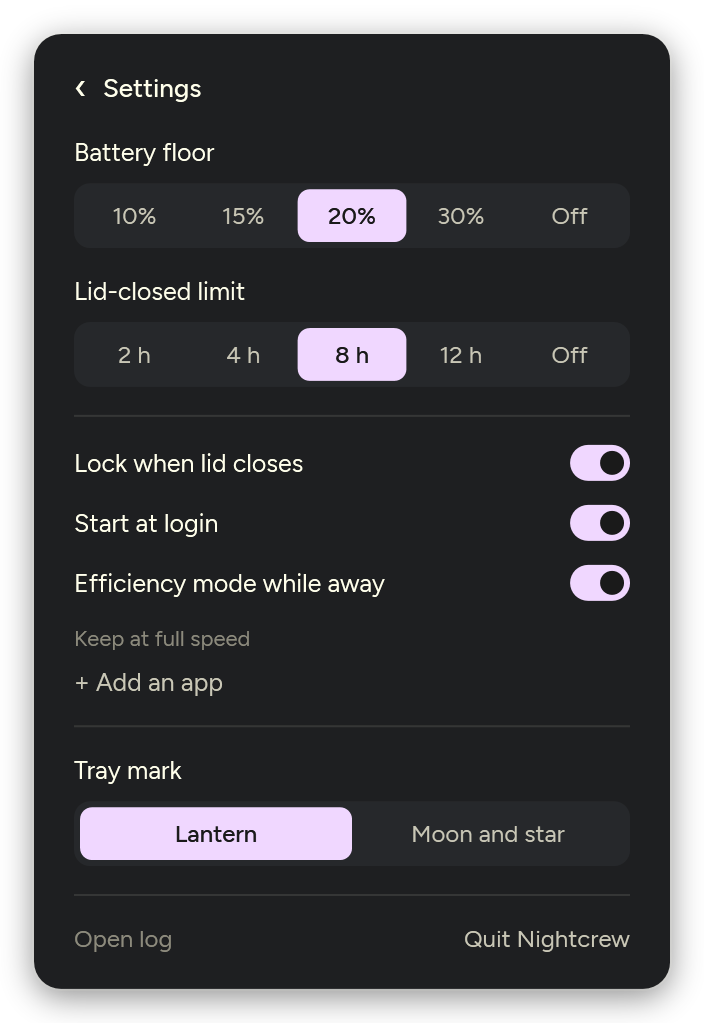
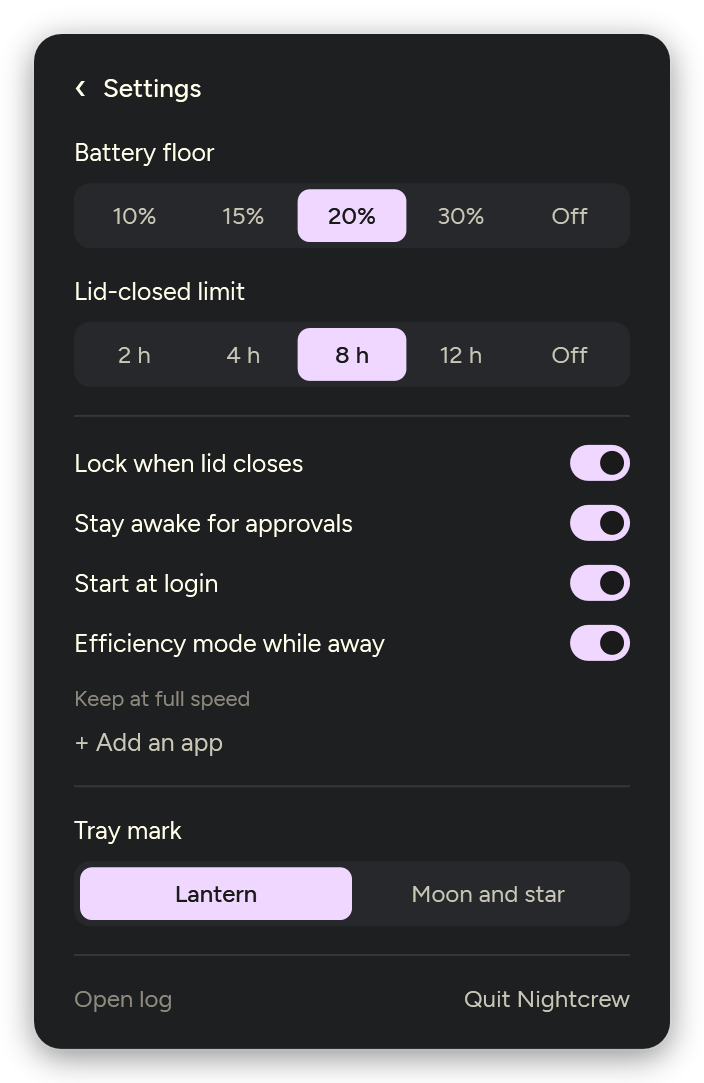
docs: v0.3.0 README and hardware checklist steps
README: what Nightcrew reads in ~\.claude\sessions, Stay awake for approvals,
the second start, the two new settings keys, an Update section with --exit, and
no more plan-switch warning. Checklist: steps 12-17 (plan switch, docked with
Do nothing, a quiet command, approvals, usage limit, second start and --exit),
step 4 to be re-run for the 9-hour battery value, and the arm values in steps
2, 8 and 11. The settings image shows the new switch.

diff --git a/docs/hardware-checklist.md b/docs/hardware-checklist.md
@@ -96,8 +96,9 @@ works.
 
 **Pass.**
 
-- While the agent works, LIDACTION and STANDBYIDLE are `0x00000000` on AC and
-  DC, and `restore.json` exists.
+- While the agent works, LIDACTION is `0x00000000` on AC and DC, STANDBYIDLE
+  is `0x00000000` on AC and `0x00007e90` (9 hours: the lid-closed limit plus
+  an hour) on DC, and `restore.json` exists.
 - `powercfg /requests` lists `nightcrew.exe` under SYSTEM and EXECUTION.
 - After the 6 minutes, the settings check shows your values again, and
   `restore.json` is gone.
@@ -126,7 +127,10 @@ events.
 ## 4. Lid closed on battery, 90 minutes
 
 This proves the battery "Sleep after" override. Without it, Windows would
-sleep after your DC STANDBYIDLE value.
+sleep after your DC STANDBYIDLE value. Run it again for v0.3.0: the override
+on battery is now 9 hours instead of Never, and on Modern Standby Windows ends
+keep-awake requests 5 minutes after that timer, so this checks nothing ends
+early.
 
 **Do.** Charge to at least 80% so that the 20% battery floor doesn't trigger,
 then unplug. Leave **Lock when lid closes** off. Start the heartbeat and a
@@ -214,7 +218,7 @@ the heartbeat.
 **Do.** Start Nightcrew normally. Check that the watchdog task exists with
 `schtasks /Query /TN "Nightcrew Watchdog"`. Keep the lid open and the laptop
 plugged in. Start an agent task and wait until the settings check shows
-`0x00000000`. In Task Manager > Details, end `nightcrew.exe` and note the
+LIDACTION `0x00000000`. In Task Manager > Details, end `nightcrew.exe` and note the
 time. Afterwards, start Nightcrew again.
 
 **Look at.** The settings check once a minute, `restore.json`, and
@@ -282,7 +286,7 @@ afterwards.
 ## 11. Uninstall
 
 **Do.** Start Nightcrew normally. Start an agent task and wait until the
-settings check shows `0x00000000`. In Task Manager, end `nightcrew.exe`.
+settings check shows LIDACTION `0x00000000`. In Task Manager, end `nightcrew.exe`.
 Right away, before the watchdog's next run, run `.\nightcrew.exe --uninstall`
 from the exe's folder.
 
@@ -300,6 +304,105 @@ Also look at the settings check and `restore.json`.
 - Both queries report that the value or task can't be found.
 - The settings check shows your values.
 - `restore.json` and `efficiency.json` are gone.
+
+## 12. Power plan switch while armed
+
+**Do.** Run `powercfg /list` and note your active plan and one other. Start
+Nightcrew normally. Plug the laptop in, keep the lid open and start a long
+agent task with N = 1. When the log shows the arm line, switch to the other
+plan with `powercfg /setactive <its GUID>`. Wait a minute, then switch back.
+When the task ends, wait 6 minutes.
+
+**Look at.** The log, and the settings check for both plans: replace
+`SCHEME_CURRENT` with each plan's GUID.
+
+**Pass.**
+
+- After each switch, within about 10 seconds, the log shows `Power plan
+  changed while armed; moving to the new plan`.
+- While armed, the active plan shows LIDACTION `0x00000000`.
+- After the 6 minutes, both plans show your values again, and `restore.json`
+  is gone.
+
+## 13. Docked, lid action Do nothing
+
+**Do.** Set your lid action to **Do nothing** while plugged in, and write the
+four values down again. Connect an external screen, keyboard and mouse. Start
+Nightcrew normally. Start a long agent task with N = 1, close the lid and keep
+working on the external screen. When the task ends, wait 6 minutes. Then set
+your lid action back to **Sleep**.
+
+**Look at.** The screen, the log and the settings check.
+
+**Pass.**
+
+- The PC doesn't lock when you close the lid. The log has no `Lock` line.
+- After the 6 minutes, the settings check shows your Do nothing values.
+
+## 14. A quiet command
+
+**Do.** Start Nightcrew normally and the heartbeat. Plug the laptop in. Ask
+Claude Code to run `powershell -NoProfile -Command 'Start-Sleep -Seconds 900'`
+with a 20-minute timeout and then reply "done". Close the lid as soon as the
+command starts. Come back after 25 minutes.
+
+**Look at.** The heartbeat, the log and Claude Code's reply.
+
+**Pass.**
+
+- There's no heartbeat gap until after Claude Code replied "done". The command
+  uses no CPU and the transcript doesn't grow, so only Claude Code's own
+  status (`claude-status` in the log) keeps the laptop awake.
+- About 5 minutes after the reply, the log shows the disarm line.
+
+## 15. Approvals
+
+**Do.** Start Nightcrew normally and the heartbeat. Plug the laptop in. In
+Settings, check that **Stay awake for approvals** is on. Ask Claude Code to do
+something that needs your permission, such as writing a file outside the
+project, so it waits for you. Then try three cases, each for 15 minutes:
+
+1. Close the lid.
+2. Open the lid and don't touch the laptop.
+3. Turn **Stay awake for approvals** off and close the lid.
+
+Answer the prompt after case 3 and turn the setting back on.
+
+**Look at.** The heartbeat and the log.
+
+**Pass.**
+
+- Case 1: no heartbeat gap, and the log keeps the arm.
+- Case 2: about 5 minutes after you opened the lid, the log shows the disarm
+  line, and Windows' own sleep timer applies.
+- Case 3: about 5 minutes after the setting went off, the log shows the disarm
+  line, and the laptop then follows your lid action.
+
+## 16. Usage limit (optional)
+
+**Do.** Hit a Claude Code usage limit in a session. While it waits for the
+reset, look at its file in `%USERPROFILE%\.claude\sessions`.
+
+**Pass.** The `status` field is `idle`, so the wait doesn't count as work.
+
+## 17. Second start and --exit
+
+**Do.** Start Nightcrew normally. Run `nightcrew.exe` again from its folder.
+Then run `.\nightcrew.exe --exit` in a terminal and note how long it takes.
+Then rename `%LOCALAPPDATA%\Nightcrew\settings.json` to `settings.old.json`
+and start Nightcrew.
+
+**Look at.** The screen, the tray and `$LASTEXITCODE`.
+
+**Pass.**
+
+- The second start opens the panel.
+- `--exit` returns within 10 seconds with exit code 0, and the lantern is
+  gone from the tray.
+- With no settings file, the panel opens once on start.
+
+Afterwards, quit Nightcrew, delete the new settings.json, and rename
+`settings.old.json` back.
 
 When you're done, set your lid action back to what you normally use. To keep
 using Nightcrew, run `nightcrew.exe` again.

diff --git a/README.md b/README.md
@@ -27,8 +27,8 @@ normally would.
 
 1. Download `nightcrew.exe` from [Releases](../../releases/latest).
 2. Put it somewhere it can stay, such as `%LOCALAPPDATA%\Programs\Nightcrew`,
-   and run it. A lantern appears in the tray, and Nightcrew starts with
-   Windows from then on.
+   and run it. A lantern appears in the tray, the panel opens once so you can
+   find it, and Nightcrew starts with Windows from then on.
 
 The exe isn't code-signed, so the first run shows "Windows protected your PC".
 Click **More info**, then **Run anyway**. With Smart App Control on, Windows
@@ -41,10 +41,13 @@ build attestation for checking the download.
 
 1. **An agent starts working.** Every 10 seconds Nightcrew looks for a Claude
    Code or Codex session that's growing, a build or script one of them
-   started, or heavy GPU use. The lantern lights up.
-2. **You close the lid.** The laptop keeps running and locks itself. Nightcrew
-   has saved your power settings, then set the lid to Do nothing and the sleep
-   timer to Never.
+   started, or heavy GPU use. For Claude Code it also reads the status in
+   `~\.claude\sessions\<pid>.json` (busy, idle or waiting), so a long, quiet
+   command still counts. That's the only thing it opens in `~\.claude`, and
+   Nightcrew has no network access. The lantern lights up.
+2. **You close the lid.** The laptop keeps running and locks itself, unless
+   your lid action is Do nothing. Nightcrew has saved your power settings, then
+   set the lid to Do nothing and the sleep timer to Never.
 3. **Other apps ease off.** Five minutes later, apps the agents don't need go
    into Efficiency mode. Agents, what they're connected to, terminals,
    editors, browsers with a Claude or Codex connector and games are left
@@ -74,8 +77,12 @@ what happens when the work is done.
   Nightcrew can't detect on its own.
 - **Pause** hands the lid back to Windows until you resume.
 - **Settings**, or right-click the lantern: battery floor, lid-closed limit,
-  lock on lid close, start at login, Efficiency mode while away, and the tray
-  mark.
+  lock on lid close, stay awake for approvals, start at login, Efficiency mode
+  while away, and the tray mark.
+- **Stay awake for approvals**: with the lid closed, Claude Code waiting for
+  your approval or answer counts as work, so you can answer from your phone.
+  Claude Code only. With the lid open, Windows' own sleep timer applies.
+- Starting `nightcrew.exe` again opens the panel.
 - If an app keeps misbehaving after you've been away, add it under **Keep at
   full speed** in Settings.
 
@@ -83,8 +90,6 @@ what happens when the work is done.
 
 ## Good to know
 
-- Switching power plans while an agent works leaves the old plan on Do nothing.
-  Switch before or after.
 - A game or video that keeps the GPU busy counts as work.
 - In a bag, the laptop loses your Wi-Fi. Set your phone's hotspot to
   **Connect automatically** (Settings > Network & internet > Wi-Fi > Manage
@@ -127,12 +132,20 @@ anything, run `nightcrew --dry-run` and read the log.
 | `EfficiencyWhileAway` | true | Put apps the agents don't need into Efficiency mode while you're away |
 | `LeaveAlone` | none | Process names never put into Efficiency mode (Settings > Keep at full speed) |
 | `ConnectorHostNames` | `chrome-native-host`, `extension-host` | Browser connector helpers; their browser is left alone |
+| `StayAwakeForApprovals` | true | With the lid closed, a Claude Code session waiting for you counts as work |
+| `ClaudeSessionsDir` | `%USERPROFILE%\.claude\sessions` | Where Claude Code keeps its session status files |
 
 </details>
 
+## Update
+
+Run `.\nightcrew.exe --exit` in its folder, which quits Nightcrew and puts
+your settings back. Replace the exe with the new one, then start it.
+
 ## Uninstall
 
-Quit Nightcrew from the tray, then run `.\nightcrew.exe --uninstall` in its
+Quit Nightcrew from the tray (or run `.\nightcrew.exe --exit`), then run
+`.\nightcrew.exe --uninstall` in its
 folder. That puts your settings back, takes any app out of Efficiency mode,
 and removes the startup entry and the watchdog task. Then delete the exe, and `%LOCALAPPDATA%\Nightcrew` if you want
 the settings and log gone too.
